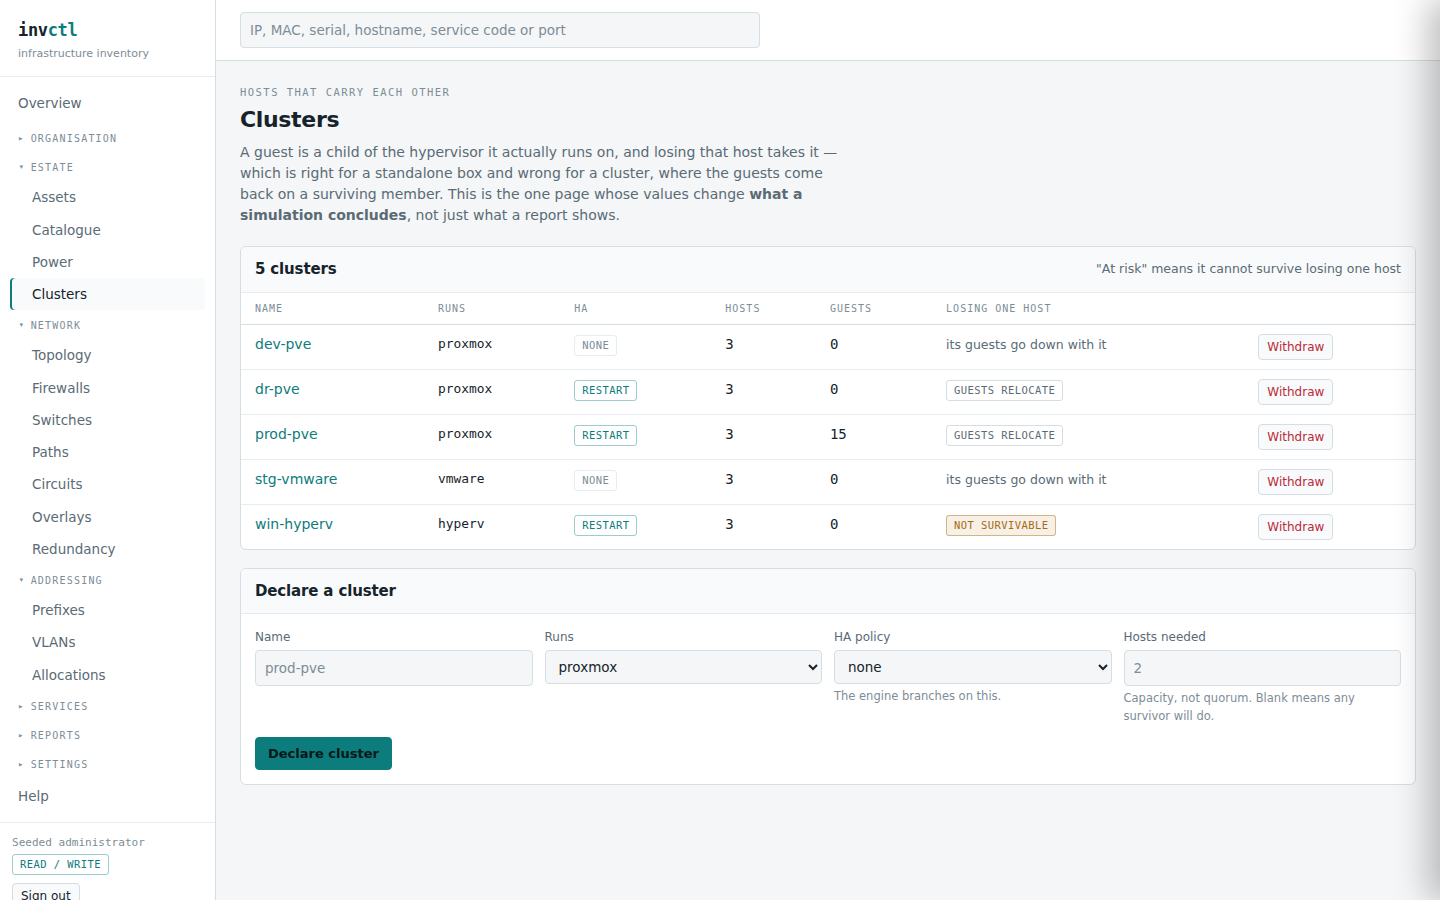
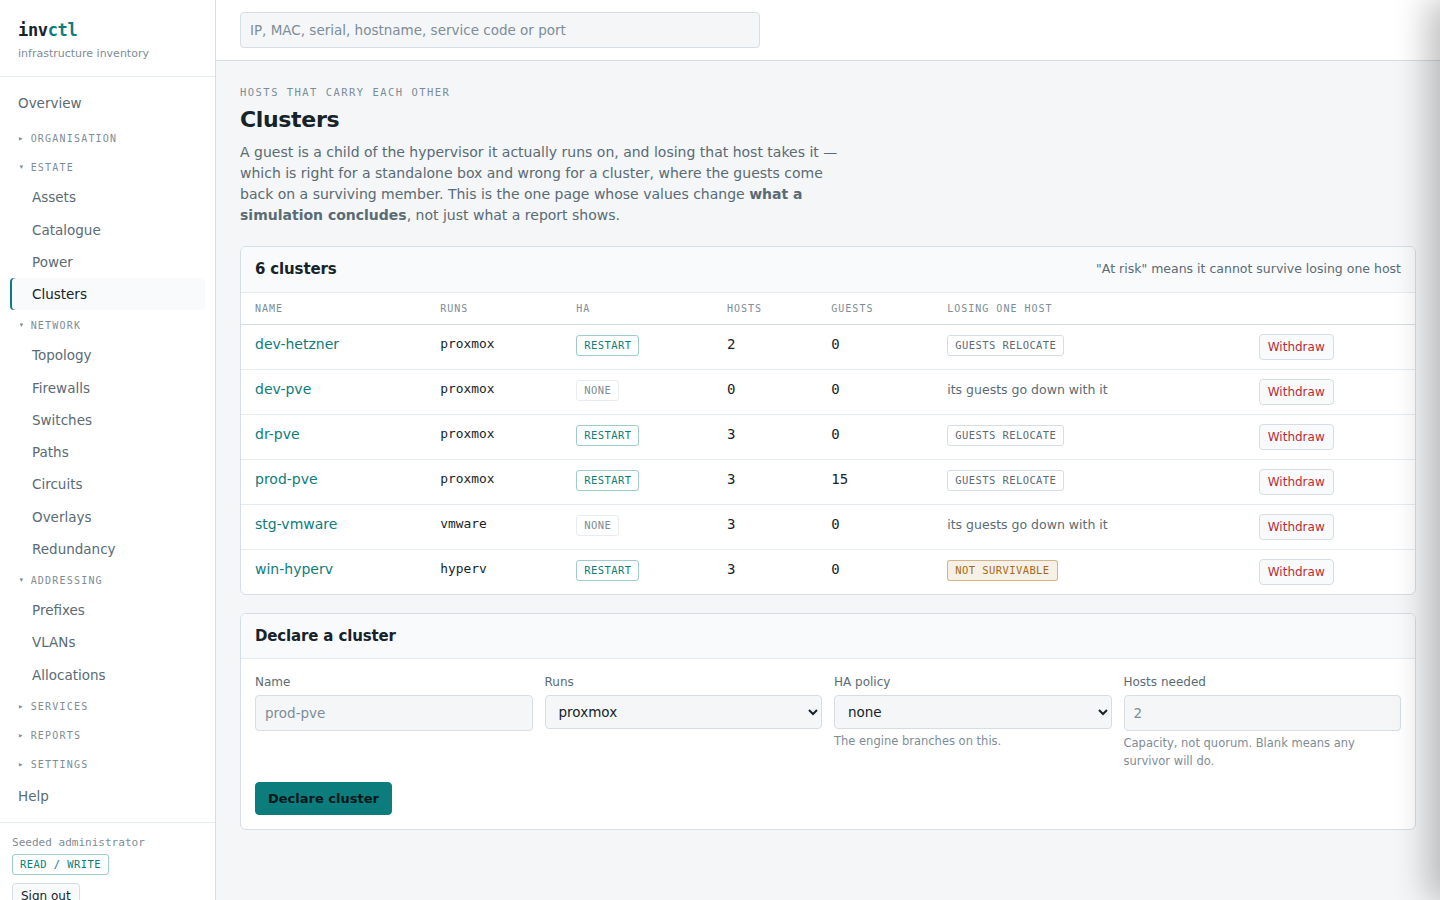
Regenerate the two manual fragments the rail change made stale
manual-stale.sh named getting-started and estate, and only those. The
other three describe code that has not moved and were left alone --
rewriting a current fragment costs a review of prose nobody needed to
read again and loses whatever a human improved by hand since.

getting-started: the rail section was describing behaviour that is no
longer what happens. It said what you open or close is remembered,
which was true and incomplete -- the group holding the current page was
also being remembered, which is the bug just fixed. It now says only
your own toggling persists, and says what using Firewalls or Switches
does to the rail, since that is the thing an operator will notice.

estate gains the three screenshots that had sat under
screenshots_pending since the manual was written. Pending existed
because the manifest must never claim an image that does not exist; the
honest way to empty it is to capture them, so they are captured and the
list is gone. Ten pending across the manual is now seven.

The prose grew where the new images earned it. The asset page shows an
inherited support date naming the model it came from, which is the
provenance rule the catalogue section had only asserted. The clusters
page now shows all three answers side by side -- relocate, goes down
with it, not survivable -- where before only the last had an example.
And dev-pve sits there with no hosts at all after the move to rented
hardware, which is worth explaining rather than leaving to look like a
[…]

diff --git a/docs/manual/parts/20-estate.md b/docs/manual/parts/20-estate.md
@@ -13,6 +13,16 @@ hypervisor, a virtual machine, a bridge. They nest — a VM inside a hypervisor
 inside a rack inside a site — and that containment is what makes *"this rack
 loses power"* and *"reboot this VM"* the same kind of question.
 
+![The asset list. Filters for name or serial, kind and environment sit above a table of 65 assets with columns for name, kind, contained by, environments, serial and lifecycle. A bridge shows DEV and PROD together with a SPANS tag.](../img/estate-1-assets.png)
+
+The **contained by** column is the tree; nothing else on the row is. Environment
+membership in particular is a set rather than a place, and an asset in more than
+one carries a `SPANS` tag — a bridge on both the development and production
+networks is either deliberate or the most interesting thing on the page.
+
+`Include retired` is off by default, which is why the count here is smaller than
+the number of rows the database holds.
+
 Two rules are worth knowing before you type anything:
 
 **Nothing is ever deleted.** An asset you retire keeps its row, its history and
@@ -42,9 +52,24 @@ shows **where it came from**: recorded on this asset, or inherited from a named
 model. A report that renders those identically has merged a fact with an
 assumption.
 
+![The hv-win-01 asset page. Under Details, "supported until" reads 2031-10-31, in 5 years, with the line "inherited from Hewlett Packard Enterprise ProLiant DL380 Gen11 — this asset has no date of its own". Panels for Contains, Observed health and Workloads sit beside and below it.](../img/estate-2-asset-detail.png)
+
+The asset page is where that shows plainly. `hv-win-01` has no date of its own,
+so the page names the model it took one from — and had somebody typed a date
+here, the same line would say so instead.
+
+Three panels below it answer three different questions, and the difference
+between them is the difference between an inventory and an impact report.
+**Contains** is what falls with it. **Workloads** is what an outage actually
+takes away, which is not the same thing — an empty hypervisor loses nothing but
+itself. **Observed health** is the only part of the page the estate wrote rather
+than a person: it carries its reporter and its age, and once a reading is older
+than three of that reporter's intervals it shows as `unknown` rather than as a
+last value that has stopped being true.
+
 ## Clusters
 
-![The clusters page listing five clusters — dev-pve, dr-pve, prod-pve, stg-vmware, win-hyperv — with columns for what they run, HA policy, host and guest counts, and what losing one host would do.](../img/estate-3-clusters.png)
+![The clusters page listing six clusters — dev-hetzner, dev-pve, dr-pve, prod-pve, stg-vmware, win-hyperv — with columns for what they run, HA policy, host and guest counts, and what losing one host would do. The last column reads GUESTS RELOCATE, "its guests go down with it", or NOT SURVIVABLE.](../img/estate-3-clusters.png)
 
 This is the one page whose values change **what a simulation concludes**, not
 just what a report shows.
@@ -65,14 +90,27 @@ guests to fit. Leave it blank and any single survivor is assumed to do, which is
 optimistic — and optimistic on purpose, because it is what an operator believes
 before checking, and therefore the belief worth testing against reality.
 
-The last column does the arithmetic for you. In the screenshot, `win-hyperv` has
-three hosts, needs three, and reads **not survivable**: HA is configured and
-cannot help. That cluster looks identical to a healthy one on every other page
-in the software, which is exactly why the column exists.
+The last column does the arithmetic for you, and the demo shows all three
+answers side by side. `dev-hetzner` has two hosts and no floor, so its guests
+**relocate**. `stg-vmware` has no HA at all, so its guests **go down with it** —
+the honest answer, not a failure. And `win-hyperv` has three hosts, needs three,
+and reads **not survivable**: HA is configured and cannot help.
+
+That last one is the case worth understanding, because it looks identical to a
+healthy cluster on every other page in the software. The detail page says it in
+full:
+
+![The win-hyperv cluster page. A banner reads "Losing one host is not survivable — HA is configured and cannot help: 3 host(s) in the cluster and 3 needed to carry the guests." Below it, a table of the three hosts and a multi-select for setting the membership.](../img/estate-4-cluster-detail.png)
 
 A host belongs to at most one cluster — two would make "where do its guests go"
 ambiguous — and the membership is replaced wholesale when you save it, with the
 change recorded against the cluster.
+
+**Retiring every host does not retire the cluster.** It keeps its row and shows
+with no members, as `dev-pve` does in the screenshot. That is deliberate rather
+than an oversight: the cluster is something a person declared, and only a person
+withdraws it. An empty one is worth seeing — it is either a migration nobody
+finished tidying up or a name about to be reused.
 
 ## Power
 

diff --git a/docs/manual/parts/00-getting-started.md b/docs/manual/parts/00-getting-started.md
@@ -56,13 +56,20 @@ current page opens itself.
 
 ![The navigation rail with Estate, Network and Addressing expanded, showing Assets, Catalogue, Power, Clusters under Estate and Topology, Firewalls, Switches, Paths, Circuits, Overlays, Redundancy under Network.](../img/getting-started-3-rail.png)
 
-What you open or close is remembered in your browser, so the rail settles into
-the shape you use.
+**Only what you open or close is remembered**, so the rail settles into the
+shape you use. A group that opens because you happen to be on a page inside it
+opens for that page and no longer than that — otherwise every section you ever
+visited would still be expanded a week later, and the rail you arranged would
+slowly stop being yours.
 
 Two entries under **Network** — Firewalls and Switches — are the asset list with
 a filter already applied. They are a view, not a second home: a firewall lives
 in the Estate because it also sits in a rack, costs money, draws power and has a
 support date. One place it lives, several places it appears.
+
+Using one of them puts you in **Network**, not in the Estate, because that is
+the entry you clicked. The rail marks the view you are in rather than the page
+underneath it.
 
 The search box at the top takes an IP address, a MAC, a serial, a hostname, a
 service code or a port number, and resolves it to whatever holds it. It is the

diff --git a/docs/manual/README.md b/docs/manual/README.md
@@ -10,9 +10,11 @@ Written for somebody who has to use this during an incident, not evaluate it.
 | [Network](parts/40-network.md) | topology, circuits, overlays, redundancy groups |
 | [Reports](parts/50-reports.md) | outage simulation, what expires, power findings, the change log |
 
-Screenshots are of the public demo at `https://invctl.madalin.me`, which has a
-small Norwegian estate in it. Your estate will look nothing like it; the
-software works the same.
+Screenshots are of the public demo at `https://invctl.madalin.me`: a small
+company that owns its production hardware in Oslo, rents a rack in a colo for
+disaster recovery, and puts development, staging and monitoring on rented
+machines at three different providers. Your estate will look nothing like it;
+the software works the same.
 
 ---
 
